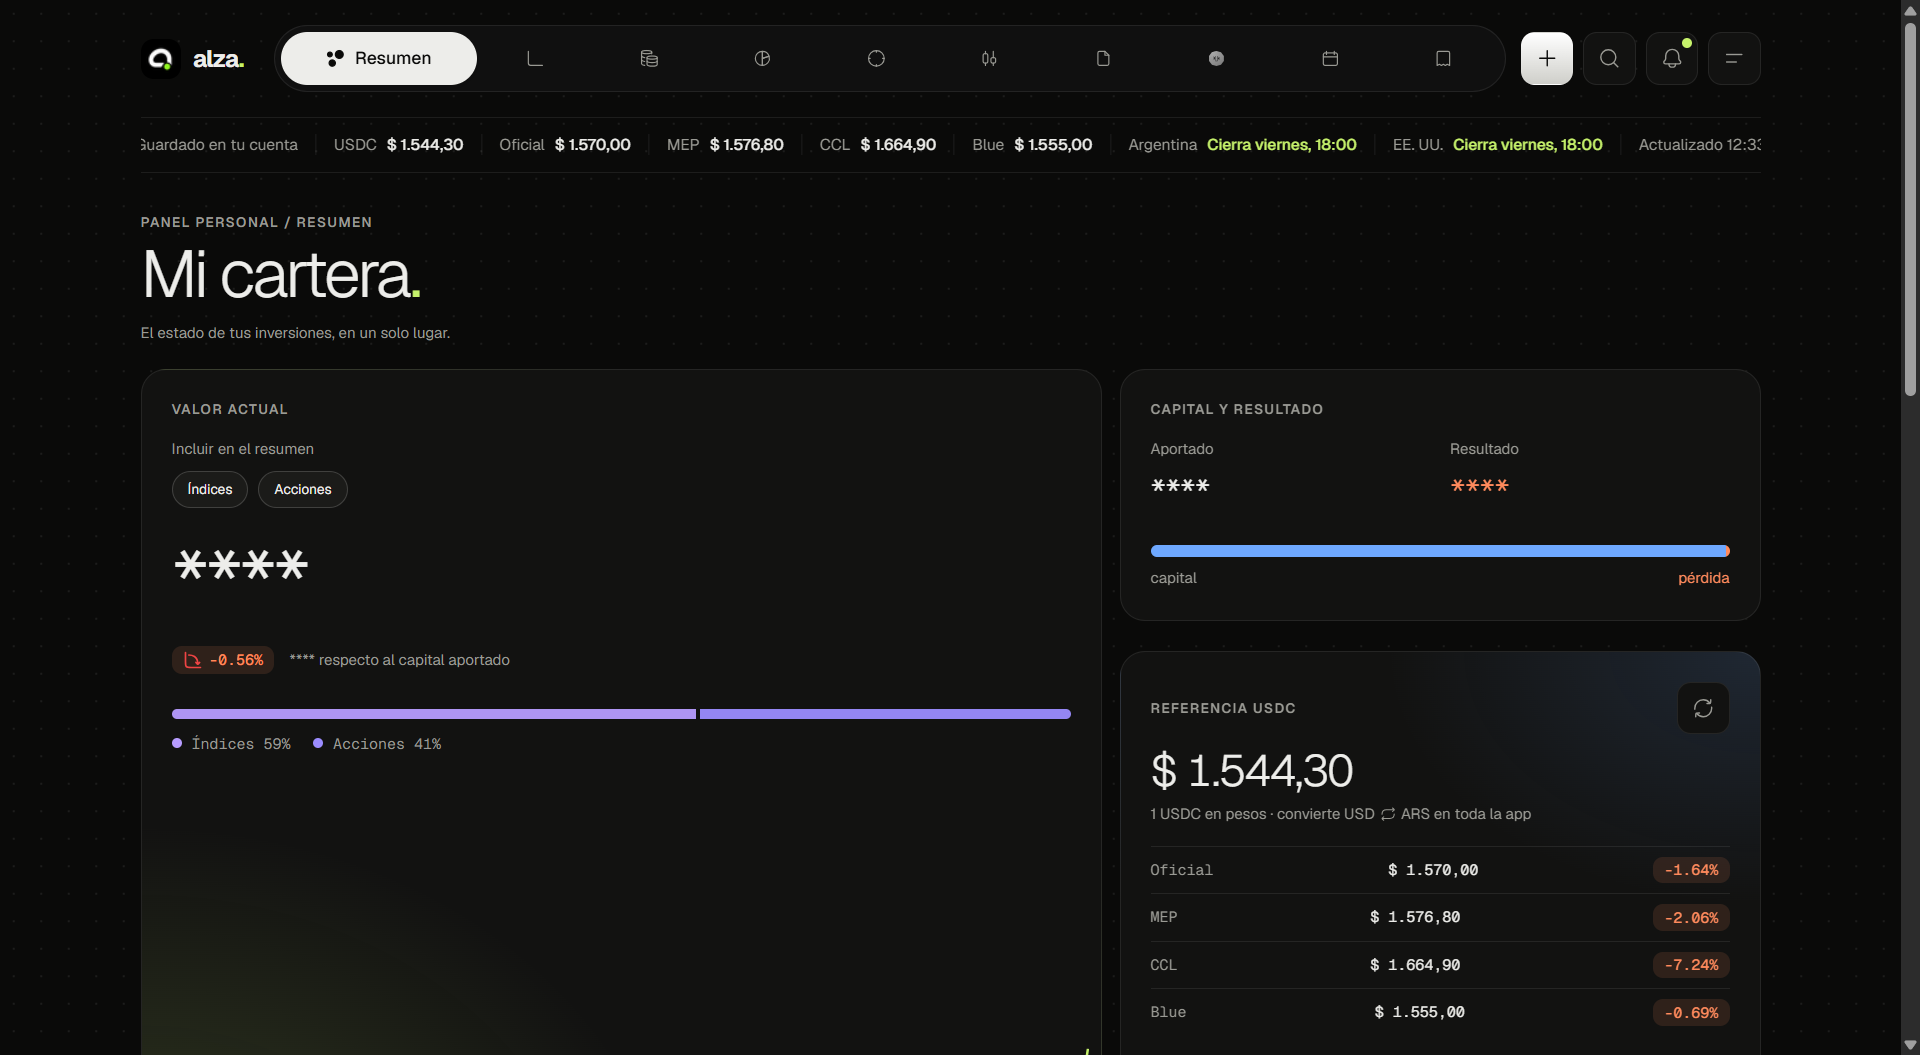
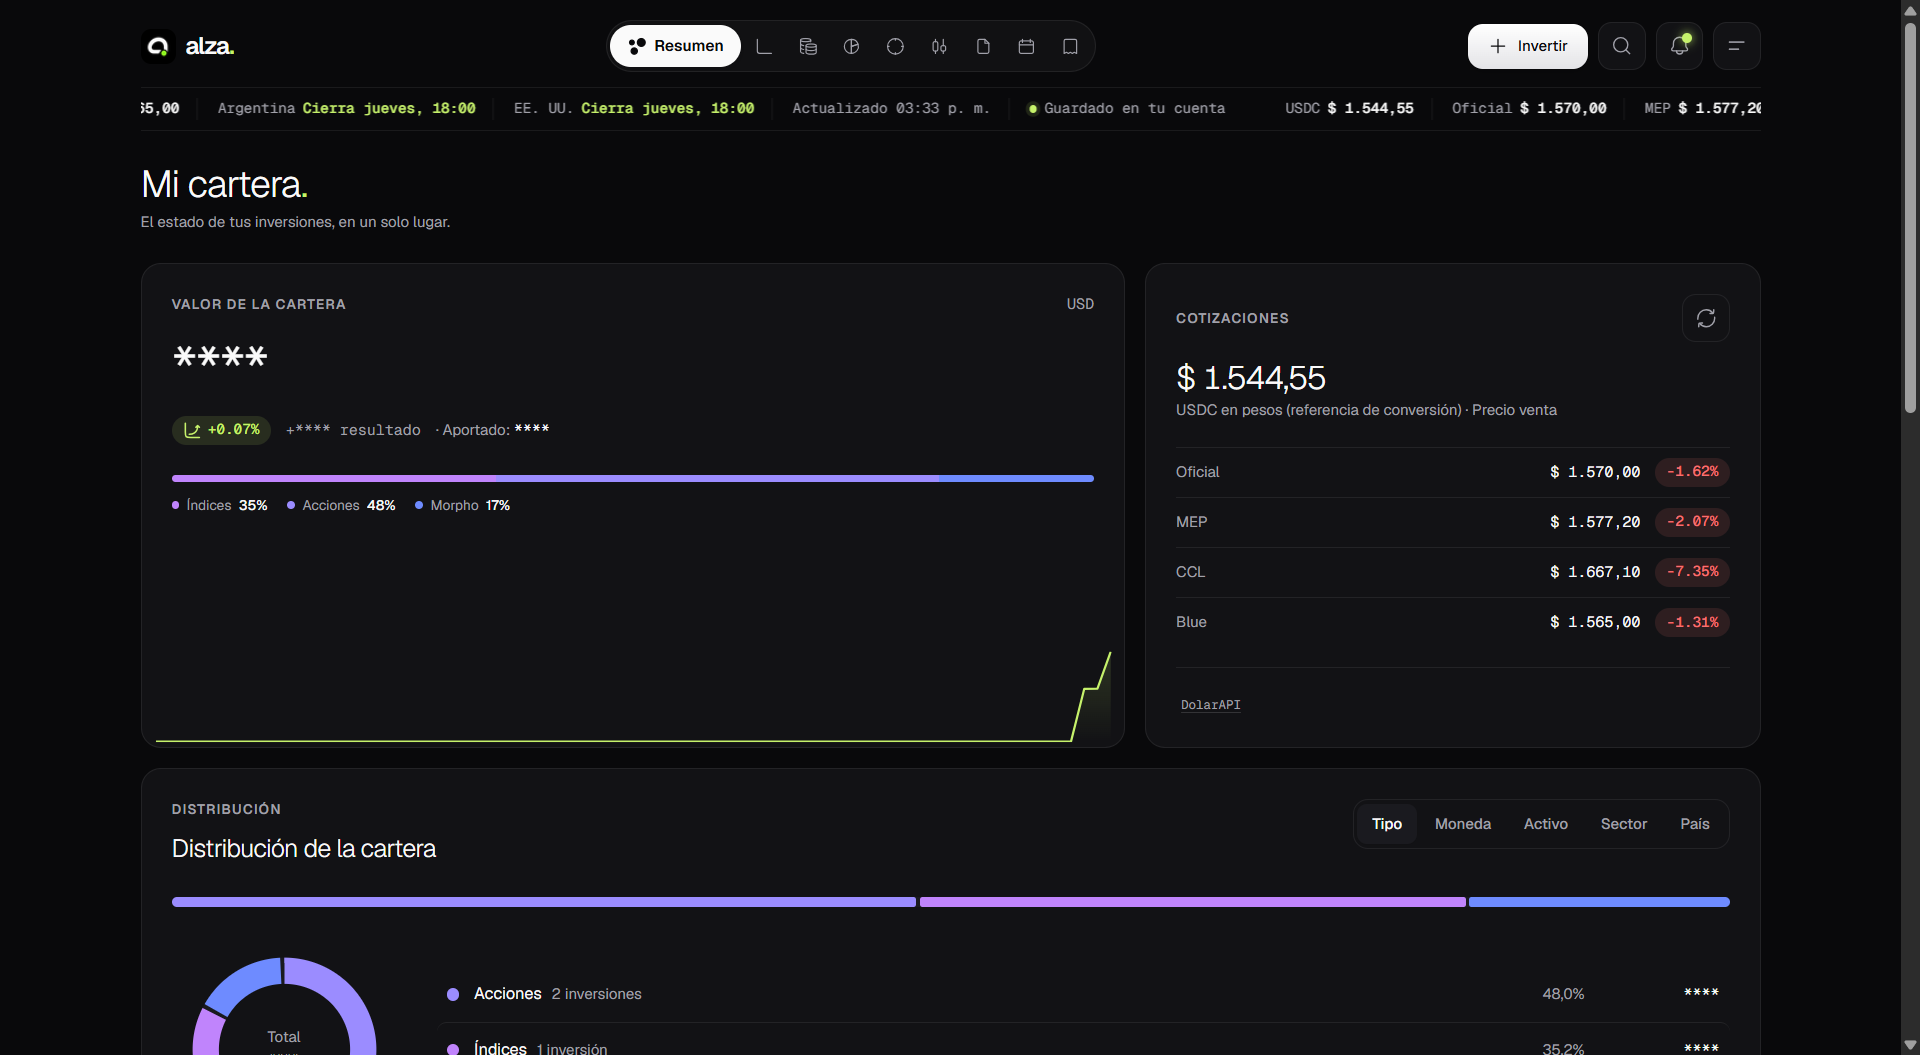
fix projects

diff --git a/src/lib/data.ts b/src/lib/data.ts
@@ -117,19 +117,52 @@ export const copy = {
         live: "https://sf-symbol-theta.vercel.app/",
       },
       {
-        title: "Activos",
+        title: "alza",
         status: "En línea",
         kicker: "Página web",
-        desc: "Aplicación personal para gestionar y realizar un seguimiento de inversiones. Permite registrar operaciones, consultar cotizaciones, analizar rendimientos y visualizar la evolución del patrimonio mediante gráficos y estadísticas.",
+        desc: "Aplicación personal para gestionar y realizar un seguimiento de inversiones. Permite registrar operaciones, consultar cotizaciones en tiempo real, analizar rendimientos y visualizar la evolución del patrimonio mediante gráficos y estadísticas. Incluye notificaciones de precios, alertas personalizadas y resúmenes diarios del estado de la cartera.",
         points: [
           "Gestión de inversiones y operaciones",
           "Seguimiento de cotizaciones y rendimientos",
           "Gráficos y estadísticas del patrimonio",
+          "Alertas de precios y notificaciones personalizadas",
+          "Resúmenes diarios de la cartera y su rendimiento",
         ],
         tags: ["React", "TypeScript", "Tailwind"],
         image: "/projects/activos.png",
-        repo: "https://github.com/luciano130605/activos",
+        repo: "https://github.com/luciano130605/activos-front",
         live: "https://activos-nu.vercel.app/",
+      },
+      {
+        title: "Dónde compro",
+        status: "En línea",
+        kicker: "Página web",
+        desc: "Comparador de supermercados que permite comparar precios de productos y listas de compras entre distintas cadenas, encontrar las opciones más económicas y aprovechar descuentos bancarios. Utiliza datos oficiales de Precios Claros (SEPA) y catálogos online actualizados automáticamente.",
+        points: [
+          "Comparación de precios entre supermercados",
+          "Listas de compras y cálculo del total",
+          "Promociones y descuentos bancarios",
+          "Actualización automática de precios",
+          "Filtros por zona y supermercado"
+        ],
+        tags: ["Astro", "React", "JavaScript", "Tailwind CSS", "Node.js", "Web Scraping"],
+        image: "/projects/donde-compro.png",
+        repo: "https://github.com/luciano130605/donde-comprar",
+        live: "https://donde-comprar-nine.vercel.app",
+      },
+      {
+        title: "Sensor de humedad",
+        status: "En línea",
+        kicker: "Página web",
+        desc: "Sistema que mide la humedad de la tierra de una planta con una ESP32, con tablero web para ver el estado y ajustar la configuración.",
+        points: [
+          "Firmware en C++ para ESP32: lee el sensor de humedad, manda la mediana de varias muestras cada 15 minutos y permite cambiar la red wifi desde un portal propio.",
+          "Backend en Node, TypeScript y Fastify con MongoDB: decide cuándo regar, ordena el riego al Sonoff y avisa al celular cuando hay que regar.",
+        ],
+        tags: ["ESP32", "React", "TypeScript", "Tailwind", "Fastify", "MongoDB", "IoT"],
+        image: "/projects/sensor-humedad.png",
+        repo: "https://github.com/luciano130605/riego-front",
+        live: "https://riego-front.vercel.app",
       },
       {
         title: "Che",
@@ -227,7 +260,6 @@ export const copy = {
       linkedin: "LinkedIn",
       copy: "Copy email",
       copied: "Email copied",
-      repo: "Repo",
       live: "Web",
       cert: "View certificate",
       menu: "Menu",
@@ -287,19 +319,53 @@ export const copy = {
         live: "https://sf-symbol-theta.vercel.app/",
       },
       {
-        title: "Activos",
+        title: "alza",
         status: "Live",
         kicker: "Website",
-        desc: "Personal investment management and tracking application. Allows users to record transactions, monitor market prices, analyze investment performance, and visualize portfolio growth through charts and statistics.",
+        desc: "Personal investment management and tracking application. Allows users to record transactions, monitor real-time market prices, analyze investment performance, and visualize portfolio growth through charts and statistics. Includes price notifications, customizable alerts, and daily portfolio summaries.",
         points: [
           "Investment and transaction management",
           "Market price and performance tracking",
           "Portfolio analytics and visualizations",
+          "Price notifications and customizable alerts",
+          "Daily portfolio summaries",
         ],
         tags: ["React", "TypeScript", "Tailwind"],
         image: "/projects/activos.png",
-        repo: "https://github.com/luciano130605/activos",
+        repo: "https://github.com/luciano130605/activos-front",
         live: "https://activos-nu.vercel.app/",
+      },
+      {
+        title: "Where I Shop",
+        status: "Live",
+        kicker: "Website",
+        desc: "Supermarket comparison tool that lets you compare product prices and shopping lists across different chains, find the best deals, and take advantage of bank discounts. It uses official Clear Price Information (SEPA) data and automatically updated online catalogs.",
+        points: [
+          "Price comparison between supermarkets",
+          "Shopping lists and total calculation",
+          "Promotions and bank discounts",
+          "Automatic price updates",
+          "Filters by area and supermarket"
+
+        ],
+        tags: ["Astro", "React", "JavaScript", "Tailwind CSS", "Node.js", "Web Scraping"],
+        image: "/projects/donde-compro.png",
+        repo: "https://github.com/luciano130605/donde-comprar",
+        live: "https://donde-comprar-nine.vercel.app",
+      },
+      {
+        title: "Soil Moisture Sensor",
+        status: "Live",
+        kicker: "Website",
+        desc: "A system that measures soil moisture for a plant using an ESP32, featuring a web dashboard to monitor status and adjust settings.",
+        points: [
+          "C++ firmware for ESP32: reads the moisture sensor, transmits the median value of multiple samples every 15 minutes, and allows for Wi-Fi network configuration via a dedicated portal.",
+          "Backend built with Node, TypeScript, and Fastify, using MongoDB: determines when to water, triggers the Sonoff device, and sends notifications to your mobile phone when watering is required.",
+        ],
+        tags: ["ESP32", "React", "TypeScript", "Tailwind", "Fastify", "MongoDB", "IoT"],
+        image: "/projects/sensor-humedad.png",
+        repo: "https://github.com/luciano130605/riego-front",
+        live: "https://riego-front.vercel.app",
       },
       {
         title: "Che",

diff --git a/src/components/site/hero.tsx b/src/components/site/hero.tsx
@@ -21,7 +21,6 @@ export function Hero() {
       />
 
       <p className="reveal relative flex items-center gap-3 font-mono text-[12.5px] text-muted">
-        <i className="dot" style={{ "--c": "var(--green)" } as React.CSSProperties} />
         {t.locationLine}
       </p>
 
